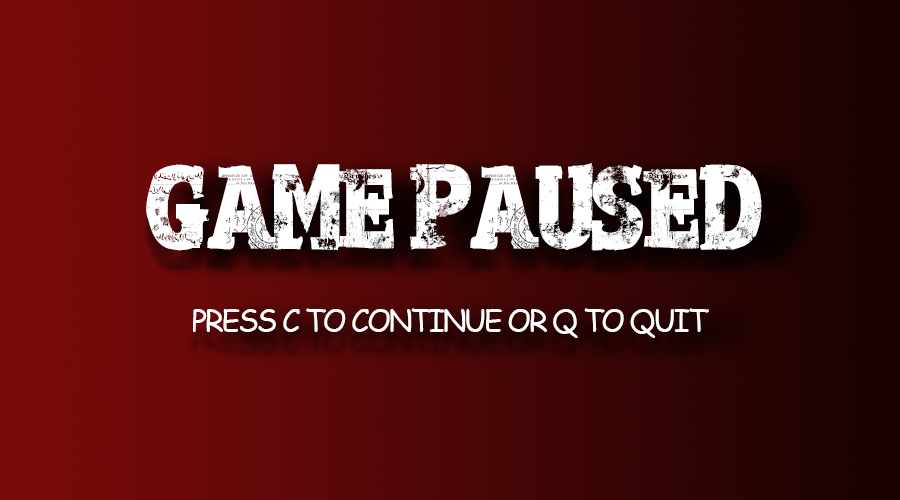
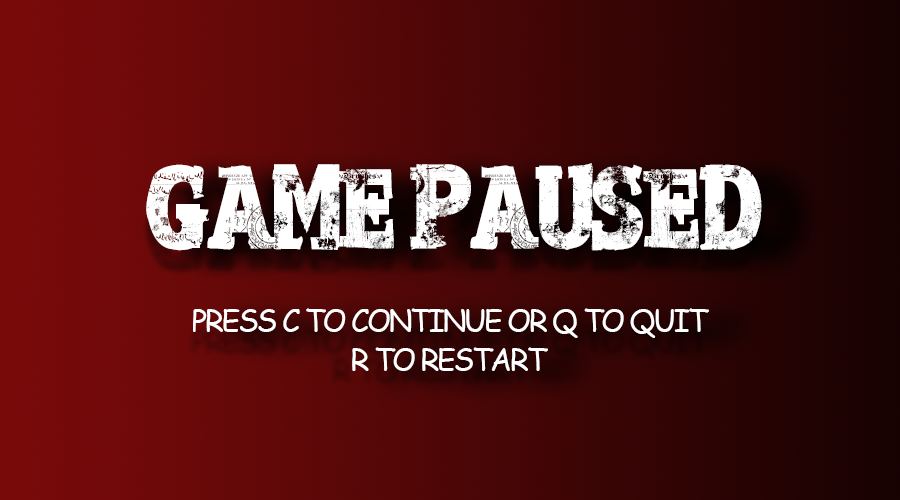
Added restart option from pause menu

Changed region(s): [[0.3733, 0.69, 0.6222, 0.78]]

diff --git a/main.py b/main.py
@@ -208,10 +208,13 @@ def main():
                     moan.play()
                     dick.shoot()
                 if event.key == pygame.K_p:
-                    pause_game()
-                    pygame.mixer.music.load(os.path.join('Assets', 'lovegun.mp3'))
-                    pygame.mixer.music.play(-1)
-                    pygame.mixer.music.set_volume(.1)
+                    result = pause_game()
+                    if result is False:
+                        return False
+                    else:
+                        pygame.mixer.music.load(os.path.join('Assets', 'lovegun.mp3'))
+                        pygame.mixer.music.play(-1)
+                        pygame.mixer.music.set_volume(.1)
 
         keys = pygame.key.get_pressed()
         if keys[pygame.K_a] and dick.x - player_vel > 0:  # LEFT
@@ -246,10 +249,15 @@ def pause_game():
             if event.type == pygame.KEYDOWN:
                 if event.key == pygame.K_c:
                     paused = False
-
                 elif event.key == pygame.K_q:
                     pygame.quit()
                     quit()
+                elif event.key == pygame.K_r:
+                    result = main()
+                    if result is False:
+                        return False
+                    else:
+                        main_menu()
         screen.blit(PMENU, (0, 0))
         pygame.display.update()
         clock.tick(30)
